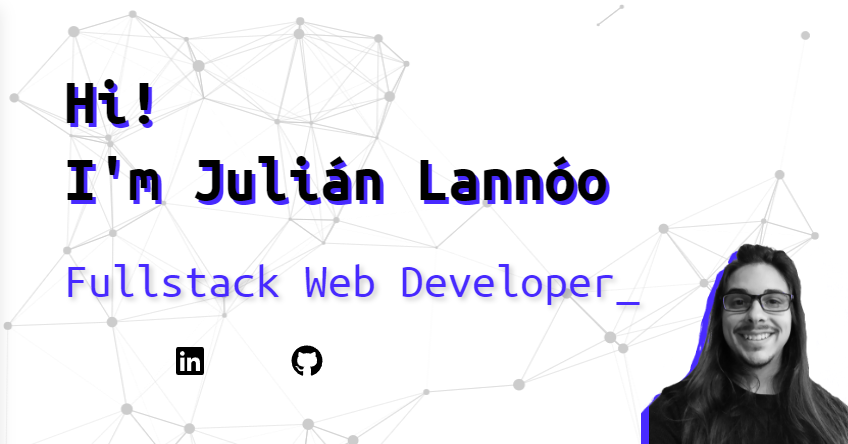
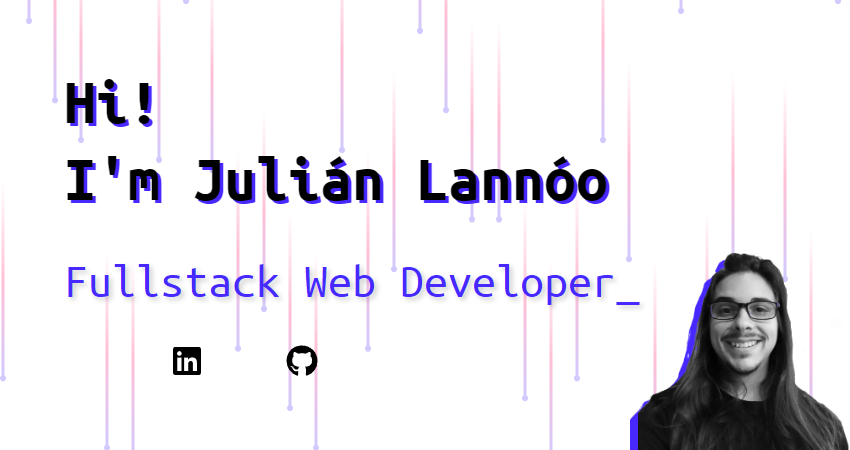
Add OGImage generator view

diff --git a/src/index.tsx b/src/index.tsx
@@ -1,11 +1,16 @@
 import React from 'react';
 import ReactDOM from 'react-dom/client';
 import './index.module.scss';
+
 import App from './App';
+import OgImage from './components/OgImage/OgImage';
 
 const root = ReactDOM.createRoot(document.getElementById('root') as HTMLElement);
 root.render(
 	<React.StrictMode>
-		<App />
+		{/* Route to ogimage view */}
+		{import.meta.env.DEV && window.location.pathname === '/ogimage' ?
+			<OgImage /> : <App />
+		}
 	</React.StrictMode>,
 );

diff --git a/src/components/OgImage/OgImage.tsx b/src/components/OgImage/OgImage.tsx
@@ -1,0 +1,21 @@
+import React from 'react';
+import css from './OgImage.module.scss';
+
+import Hero from '../Main/Hero/Hero';
+import { changeLanguage } from 'i18next';
+
+/**
+ * User in dev mode for generating the og image for the site
+ * @return {JSX.Element}
+ */
+export default function OgImage() {
+	changeLanguage('en');
+
+	return (
+		<>
+			<div className={css.OgImageContainer}>
+				<Hero />
+			</div>
+		</>
+	);
+}

diff --git a/src/components/Main/Hero/Background/Background.module.scss b/src/components/Main/Hero/Background/Background.module.scss
@@ -32,7 +32,7 @@ $tailLength: 200;
 .Particle {
     position: absolute;
 
-    top: -10%;
+    top: -5%;
     left: 0;
 
     border-radius: 100vw;
@@ -73,7 +73,7 @@ $tailLength: 200;
 
     @for $i from 1 through 100 {
         .Particle:nth-child(#{$i}) {
-            transform: translateY(#{random(100)}vh);
+            transform: translateY(#{random(50)}vh);
         }
     }
 }

diff --git a/src/components/OgImage/OgImage.module.scss b/src/components/OgImage/OgImage.module.scss
@@ -1,0 +1,9 @@
+.OgImageContainer {
+    display: flex;
+
+    margin: 0;
+    padding: 0;
+
+    width: 850px;
+    height: 450px;
+}
